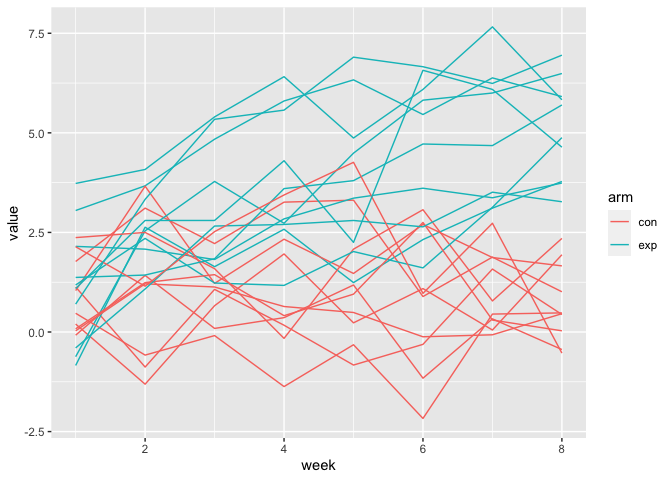
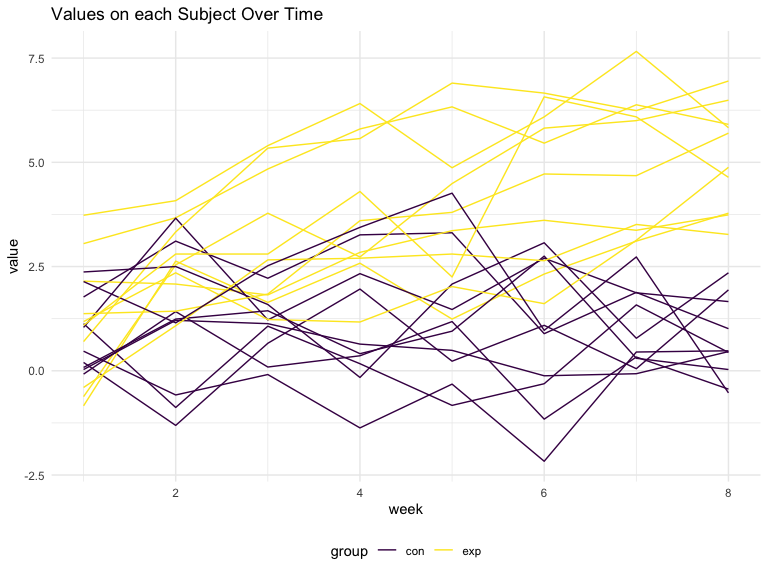
complete Problem 2

diff --git a/p8105_hw5_yl5227.md b/p8105_hw5_yl5227.md
@@ -51,14 +51,21 @@ df_city_homcide =
 
 # Problem 2
 
+This zip file contains data that allows tracking of changes in
+observations over multiple weeks for each subject within their assigned
+group.
+
+Create a tidy dataframe containing data from all participants, including
+the subject ID, arm, and observations over time.
+
 ``` r
 df_all_participants =
   tibble(
     file_names = list.files(path = "data", pattern = "(con|exp)_\\d\\d.csv", full.names = TRUE),
     data = map(file_names, read_csv)) |> 
-  separate(file_names, into = c("arm", "subject_id"), sep = "\\_") |> 
+  separate(file_names, into = c("group", "subject_id"), sep = "\\_") |> 
   mutate(
-    arm = str_remove(arm, "data/"),
+    group = str_remove(group, "data/"),
     subject_id = str_remove(subject_id, ".csv")
   ) |> 
   unnest(data) |> 
@@ -69,157 +76,48 @@ df_all_participants =
     values_to = "value"
   ) |> 
   mutate(week = as.numeric(week))
+
+df_all_participants
 ```
 
-    ## Rows: 1 Columns: 8
-    ## ── Column specification ────────────────────────────────────────────────────────
-    ## Delimiter: ","
-    ## dbl (8): week_1, week_2, week_3, week_4, week_5, week_6, week_7, week_8
-    ## 
-    ## ℹ Use `spec()` to retrieve the full column specification for this data.
-    ## ℹ Specify the column types or set `show_col_types = FALSE` to quiet this message.
-    ## Rows: 1 Columns: 8
-    ## ── Column specification ────────────────────────────────────────────────────────
-    ## Delimiter: ","
-    ## dbl (8): week_1, week_2, week_3, week_4, week_5, week_6, week_7, week_8
-    ## 
-    ## ℹ Use `spec()` to retrieve the full column specification for this data.
-    ## ℹ Specify the column types or set `show_col_types = FALSE` to quiet this message.
-    ## Rows: 1 Columns: 8
-    ## ── Column specification ────────────────────────────────────────────────────────
-    ## Delimiter: ","
-    ## dbl (8): week_1, week_2, week_3, week_4, week_5, week_6, week_7, week_8
-    ## 
-    ## ℹ Use `spec()` to retrieve the full column specification for this data.
-    ## ℹ Specify the column types or set `show_col_types = FALSE` to quiet this message.
-    ## Rows: 1 Columns: 8
-    ## ── Column specification ────────────────────────────────────────────────────────
-    ## Delimiter: ","
-    ## dbl (8): week_1, week_2, week_3, week_4, week_5, week_6, week_7, week_8
-    ## 
-    ## ℹ Use `spec()` to retrieve the full column specification for this data.
-    ## ℹ Specify the column types or set `show_col_types = FALSE` to quiet this message.
-    ## Rows: 1 Columns: 8
-    ## ── Column specification ────────────────────────────────────────────────────────
-    ## Delimiter: ","
-    ## dbl (8): week_1, week_2, week_3, week_4, week_5, week_6, week_7, week_8
-    ## 
-    ## ℹ Use `spec()` to retrieve the full column specification for this data.
-    ## ℹ Specify the column types or set `show_col_types = FALSE` to quiet this message.
-    ## Rows: 1 Columns: 8
-    ## ── Column specification ────────────────────────────────────────────────────────
-    ## Delimiter: ","
-    ## dbl (8): week_1, week_2, week_3, week_4, week_5, week_6, week_7, week_8
-    ## 
-    ## ℹ Use `spec()` to retrieve the full column specification for this data.
-    ## ℹ Specify the column types or set `show_col_types = FALSE` to quiet this message.
-    ## Rows: 1 Columns: 8
-    ## ── Column specification ────────────────────────────────────────────────────────
-    ## Delimiter: ","
-    ## dbl (8): week_1, week_2, week_3, week_4, week_5, week_6, week_7, week_8
-    ## 
-    ## ℹ Use `spec()` to retrieve the full column specification for this data.
-    ## ℹ Specify the column types or set `show_col_types = FALSE` to quiet this message.
-    ## Rows: 1 Columns: 8
-    ## ── Column specification ────────────────────────────────────────────────────────
-    ## Delimiter: ","
-    ## dbl (8): week_1, week_2, week_3, week_4, week_5, week_6, week_7, week_8
-    ## 
-    ## ℹ Use `spec()` to retrieve the full column specification for this data.
-    ## ℹ Specify the column types or set `show_col_types = FALSE` to quiet this message.
-    ## Rows: 1 Columns: 8
-    ## ── Column specification ────────────────────────────────────────────────────────
-    ## Delimiter: ","
-    ## dbl (8): week_1, week_2, week_3, week_4, week_5, week_6, week_7, week_8
-    ## 
-    ## ℹ Use `spec()` to retrieve the full column specification for this data.
-    ## ℹ Specify the column types or set `show_col_types = FALSE` to quiet this message.
-    ## Rows: 1 Columns: 8
-    ## ── Column specification ────────────────────────────────────────────────────────
-    ## Delimiter: ","
-    ## dbl (8): week_1, week_2, week_3, week_4, week_5, week_6, week_7, week_8
-    ## 
-    ## ℹ Use `spec()` to retrieve the full column specification for this data.
-    ## ℹ Specify the column types or set `show_col_types = FALSE` to quiet this message.
-    ## Rows: 1 Columns: 8
-    ## ── Column specification ────────────────────────────────────────────────────────
-    ## Delimiter: ","
-    ## dbl (8): week_1, week_2, week_3, week_4, week_5, week_6, week_7, week_8
-    ## 
-    ## ℹ Use `spec()` to retrieve the full column specification for this data.
-    ## ℹ Specify the column types or set `show_col_types = FALSE` to quiet this message.
-    ## Rows: 1 Columns: 8
-    ## ── Column specification ────────────────────────────────────────────────────────
-    ## Delimiter: ","
-    ## dbl (8): week_1, week_2, week_3, week_4, week_5, week_6, week_7, week_8
-    ## 
-    ## ℹ Use `spec()` to retrieve the full column specification for this data.
-    ## ℹ Specify the column types or set `show_col_types = FALSE` to quiet this message.
-    ## Rows: 1 Columns: 8
-    ## ── Column specification ────────────────────────────────────────────────────────
-    ## Delimiter: ","
-    ## dbl (8): week_1, week_2, week_3, week_4, week_5, week_6, week_7, week_8
-    ## 
-    ## ℹ Use `spec()` to retrieve the full column specification for this data.
-    ## ℹ Specify the column types or set `show_col_types = FALSE` to quiet this message.
-    ## Rows: 1 Columns: 8
-    ## ── Column specification ────────────────────────────────────────────────────────
-    ## Delimiter: ","
-    ## dbl (8): week_1, week_2, week_3, week_4, week_5, week_6, week_7, week_8
-    ## 
-    ## ℹ Use `spec()` to retrieve the full column specification for this data.
-    ## ℹ Specify the column types or set `show_col_types = FALSE` to quiet this message.
-    ## Rows: 1 Columns: 8
-    ## ── Column specification ────────────────────────────────────────────────────────
-    ## Delimiter: ","
-    ## dbl (8): week_1, week_2, week_3, week_4, week_5, week_6, week_7, week_8
-    ## 
-    ## ℹ Use `spec()` to retrieve the full column specification for this data.
-    ## ℹ Specify the column types or set `show_col_types = FALSE` to quiet this message.
-    ## Rows: 1 Columns: 8
-    ## ── Column specification ────────────────────────────────────────────────────────
-    ## Delimiter: ","
-    ## dbl (8): week_1, week_2, week_3, week_4, week_5, week_6, week_7, week_8
-    ## 
-    ## ℹ Use `spec()` to retrieve the full column specification for this data.
-    ## ℹ Specify the column types or set `show_col_types = FALSE` to quiet this message.
-    ## Rows: 1 Columns: 8
-    ## ── Column specification ────────────────────────────────────────────────────────
-    ## Delimiter: ","
-    ## dbl (8): week_1, week_2, week_3, week_4, week_5, week_6, week_7, week_8
-    ## 
-    ## ℹ Use `spec()` to retrieve the full column specification for this data.
-    ## ℹ Specify the column types or set `show_col_types = FALSE` to quiet this message.
-    ## Rows: 1 Columns: 8
-    ## ── Column specification ────────────────────────────────────────────────────────
-    ## Delimiter: ","
-    ## dbl (8): week_1, week_2, week_3, week_4, week_5, week_6, week_7, week_8
-    ## 
-    ## ℹ Use `spec()` to retrieve the full column specification for this data.
-    ## ℹ Specify the column types or set `show_col_types = FALSE` to quiet this message.
-    ## Rows: 1 Columns: 8
-    ## ── Column specification ────────────────────────────────────────────────────────
-    ## Delimiter: ","
-    ## dbl (8): week_1, week_2, week_3, week_4, week_5, week_6, week_7, week_8
-    ## 
-    ## ℹ Use `spec()` to retrieve the full column specification for this data.
-    ## ℹ Specify the column types or set `show_col_types = FALSE` to quiet this message.
-    ## Rows: 1 Columns: 8
-    ## ── Column specification ────────────────────────────────────────────────────────
-    ## Delimiter: ","
-    ## dbl (8): week_1, week_2, week_3, week_4, week_5, week_6, week_7, week_8
-    ## 
-    ## ℹ Use `spec()` to retrieve the full column specification for this data.
-    ## ℹ Specify the column types or set `show_col_types = FALSE` to quiet this message.
+    ## # A tibble: 160 × 4
+    ##    group subject_id  week value
+    ##    <chr> <chr>      <dbl> <dbl>
+    ##  1 con   01             1  0.2 
+    ##  2 con   01             2 -1.31
+    ##  3 con   01             3  0.66
+    ##  4 con   01             4  1.96
+    ##  5 con   01             5  0.23
+    ##  6 con   01             6  1.09
+    ##  7 con   01             7  0.05
+    ##  8 con   01             8  1.94
+    ##  9 con   02             1  1.13
+    ## 10 con   02             2 -0.88
+    ## # ℹ 150 more rows
+
+The provided dataframe `df_all_participants` contains longitudinal data
+from a study with both control and experimental groups. It has a total
+of 160 entries, structured on variables that include `group` to specify
+the arm (control or experimental), `subject_id` for participant
+identification, `week` to denote the time point of the observation, and
+`value` representing the measurement or observation recorded. Each
+participant’s data is compiled in a distinct file, named with their
+respective subject ID and group designation.
 
 Make a spaghetti plot
 
 ``` r
 df_all_participants |> 
-  ggplot(aes(x = week, y = value, group = str_c(subject_id,arm), color = arm)) +
-  geom_line()
+  ggplot(aes(x = week, y = value, group = str_c(subject_id,group), color = group)) +
+  geom_line() +
+  labs(title = "Values on each Subject Over Time")
 ```
 
-![](p8105_hw5_yl5227_files/figure-gfm/unnamed-chunk-4-1.png)<!-- -->
+<img src="p8105_hw5_yl5227_files/figure-gfm/unnamed-chunk-4-1.png" width="90%" />
+
+In the control group, the data points for each participant remain
+relatively stable, showing little change over time. However, in the
+experimental group, there’s a clear pattern of growth, with measurements
+for each subject showing an upward trajectory with each passing week.
 
 # Problem 3
